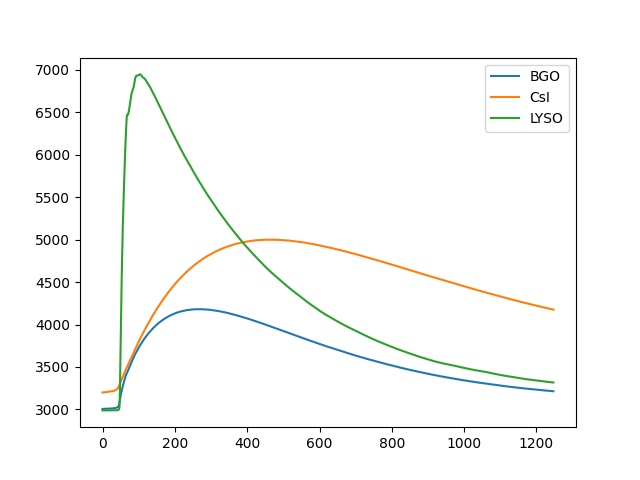
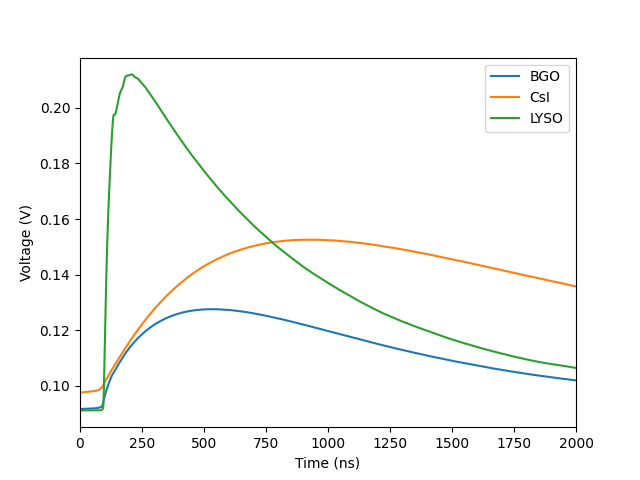
Finish lab 5

diff --git a/lab5.py b/lab5.py
@@ -51,8 +51,11 @@ def main():
     wave_names = [file.name.split('_')[4] for file in wave_files]
     plt.clf()
     for i, wave_name in enumerate(wave_names):
-        plt.plot(wave_data[i], label=wave_name)
+        plt.plot(np.arange(len(wave_data[i]))*2, wave_data[i]*(0.5/(2**14)), label=wave_name)
     plt.legend()
+    plt.xlim(0, 2000)
+    plt.xlabel("Time (ns)")
+    plt.ylabel("Voltage (V)")
     plt.savefig("waves.png")
     plt.close()
 
